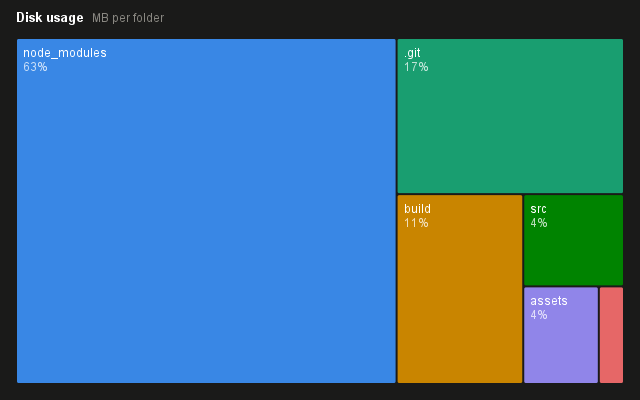
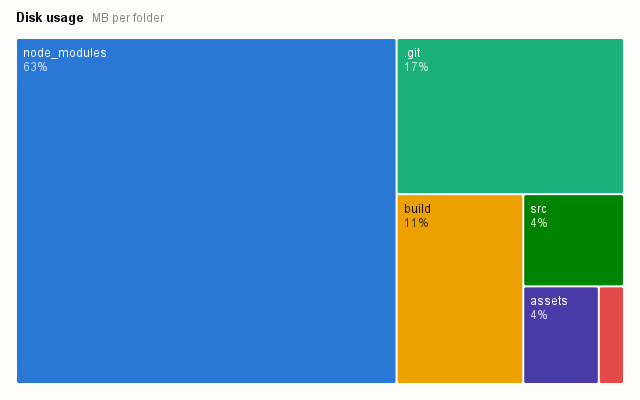
docs: keep the walkthrough examples on one palette
The tutorial examples all render in the default light theme now; theme
variety lives where it is the subject — the showcase dashboard and the
theming section's palette study.

diff --git a/src/test/java/io/github/wesleym/inkplot/ReadmeExamplesTest.java b/src/test/java/io/github/wesleym/inkplot/ReadmeExamplesTest.java
@@ -55,12 +55,11 @@ class ReadmeExamplesTest {
 	}
 
 	@Test
-	void treemapDark() throws Exception {
+	void treemapShares() throws Exception {
 		Chart chart = Charts.treemap(
 				new String[] { "node_modules", ".git", "build", "src", "assets", "docs" },
 				new double[] { 482, 130, 88, 34, 27, 9 })
-				.title("Disk usage", "MB per folder")
-				.theme(ChartTheme.DARK);
+				.title("Disk usage", "MB per folder");
 		write("readme-treemap", chart, 640, 400);
 	}
 
@@ -88,15 +87,14 @@ class ReadmeExamplesTest {
 	}
 
 	@Test
-	void stackedBarsDark() throws Exception {
+	void stackedBars() throws Exception {
 		Chart chart = Charts.bar("Q1", "Q2", "Q3", "Q4")
 				.series("Solar", 41, 54, 66, 48)
 				.series("Wind", 88, 72, 61, 94)
 				.series("Hydro", 33, 36, 31, 35)
 				.stacked()
 				.legendBelow()
-				.title("Generation mix", "GWh")
-				.theme(ChartTheme.DARK);
+				.title("Generation mix", "GWh");
 		write("readme-stacked", chart, 640, 400);
 	}
 

diff --git a/README.md b/README.md
@@ -67,19 +67,17 @@ Charts.doughnut(
 
 <img src="docs/readme-doughnut.png" width="640" alt="Doughnut chart with direct labels">
 
-The same shares draw as a `Charts.waffle(...)` unit grid or, for skewed magnitudes, a squarified treemap —
-here with the built-in dark theme:
+The same shares draw as a `Charts.waffle(...)` unit grid or, for skewed magnitudes, a squarified treemap:
 
 ```java
 Charts.treemap(
         new String[] { "node_modules", ".git", "build", "src", "assets", "docs" },
         new double[] { 482, 130, 88, 34, 27, 9 })
         .title("Disk usage", "MB per folder")
-        .theme(ChartTheme.DARK)
         .component();
 ```
 
-<img src="docs/readme-treemap.png" width="640" alt="Treemap in the dark theme">
+<img src="docs/readme-treemap.png" width="640" alt="Treemap of disk usage">
 
 ## Distributions
 
@@ -123,11 +121,10 @@ Charts.bar("Q1", "Q2", "Q3", "Q4")
         .stacked()
         .legendBelow()
         .title("Generation mix", "GWh")
-        .theme(ChartTheme.DARK)
         .component();
 ```
 
-<img src="docs/readme-stacked.png" width="640" alt="Stacked bar chart in the dark theme">
+<img src="docs/readme-stacked.png" width="640" alt="Stacked bar chart of a generation mix">
 
 ## Table in, chart out
 